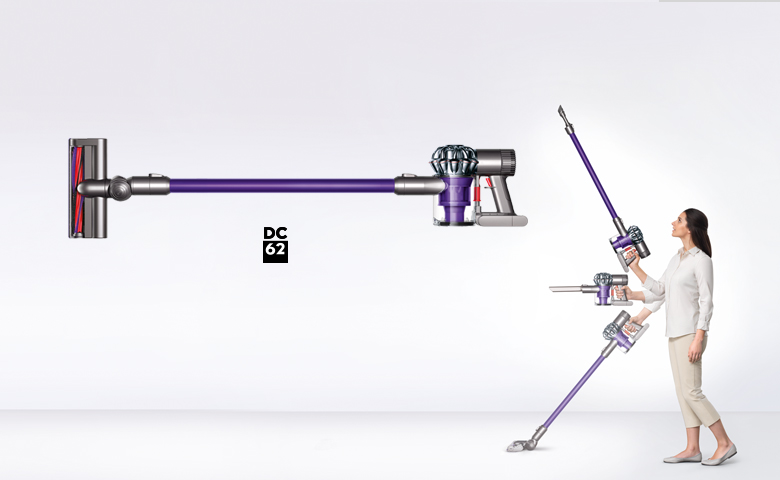
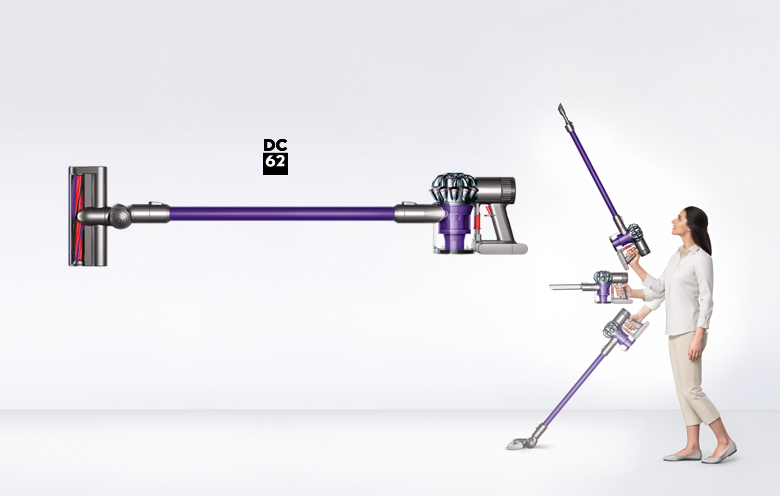
Updated hero images, including element positioning.

Changed region(s): [[0.0615, 0.2812, 0.6769, 0.5625], [0.6462, 0.2188, 0.9538, 0.9688], [0.8615, 0.0, 1.0, 0.0312]]

diff --git a/app/styles/_handhelds.scss b/app/styles/_handhelds.scss
@@ -1,18 +1,20 @@
 .handhelds {
     .hero {
         margin-bottom: 0px !important;
+        height:496px;
             .hero_image {
                 background:url(../images/handhelds/hero.jpg);
                 background-repeat: no-repeat;
                 height:100%;
             }
             h1 {
-                margin: 181px 0 150px 89px;
+                margin: 181px 0 80px 69px;
                 text-align: center;
-                width: 240px;   
+                width: 280px;  
+                height:100px 
             }
             .dbutton {
-                margin-left: 125px;
+                margin-left: 146px;
             }
 
     }

diff --git a/app/styles/_cordless.scss b/app/styles/_cordless.scss
@@ -1,14 +1,15 @@
 .cordless {
     .hero {
         margin-bottom: 0px !important;
+        height:496px;
             .hero_image {
                 background:url(../images/cordless/hero.jpg);
                 background-repeat: no-repeat;
                 height:100%;
             }
             h1 {
-                margin: 282px 0 20px 130px;
-                width: 295px;
+                margin: 282px 0 20px 95px;
+                width: 360px;
                 text-align: center;
             }
             .dbutton {

diff --git a/app/styles/_fans.scss b/app/styles/_fans.scss
@@ -7,7 +7,7 @@
                 height:100%;
             }
             h1 {
-                margin: 210px 0 40px 45px;
+                margin: 190px 0 25px 45px;
                 width: 280px;
             }
             .dbutton {

diff --git a/app/styles/_header.scss b/app/styles/_header.scss
@@ -1,5 +1,5 @@
 #header {
-    background-color:#fff;
+    background-color:#f3f3f3;
     overflow: hidden;
     margin:10px;
     position: relative;
